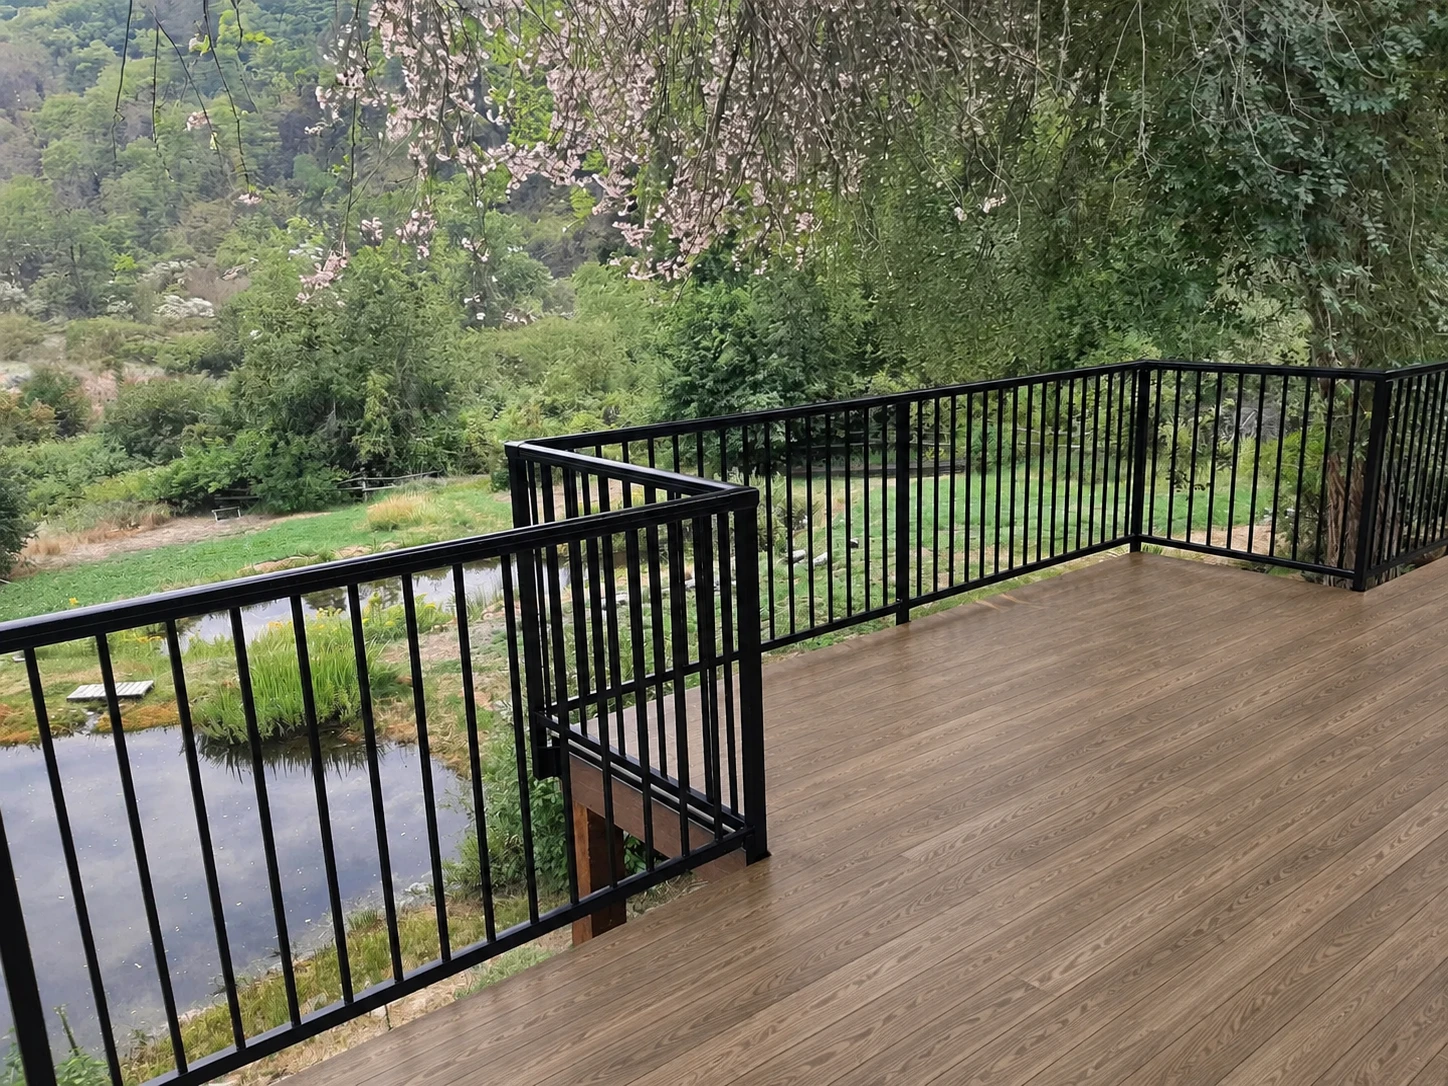
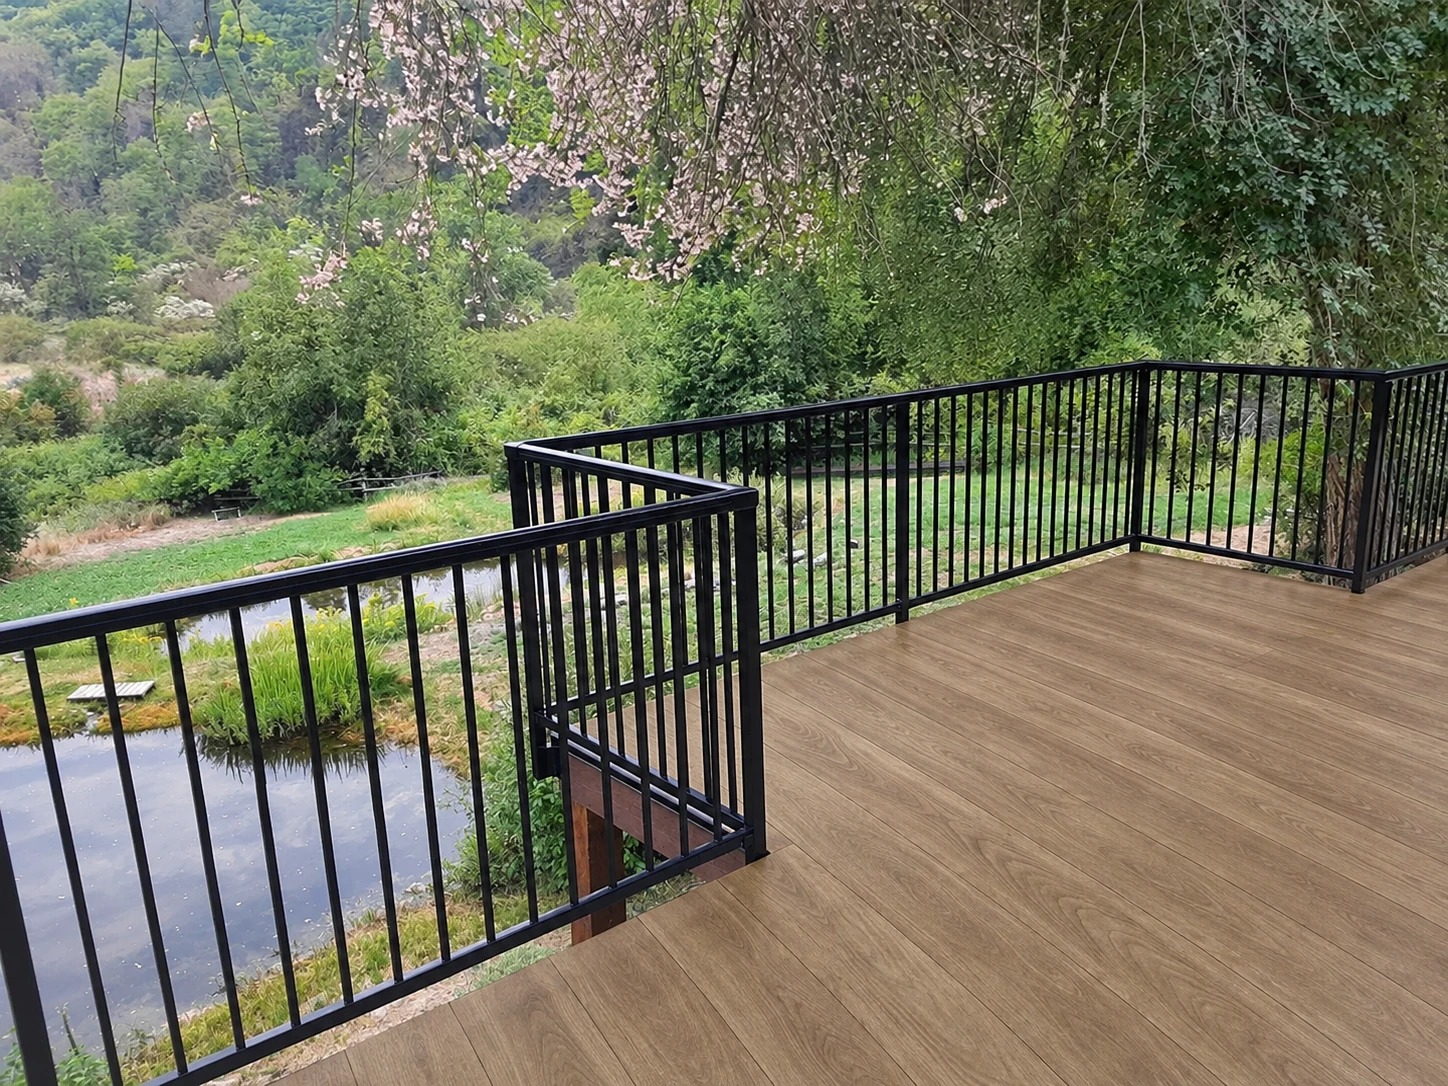
Render woodgrains at high quality; prompt v7; re-measured chevron hints
Benchmarked on the backyard photo before changing anything: at medium
quality every Hansberry render drew the chevron boards two to three
times too wide, across 24 renders and seven variants (current prompt,
re-measured hints, a shorter prompt, a scale bar drawn on the reference,
a 2x2 tiled reference, an explicit deck-size sentence, Sunburst). The
quality tier was the lever: at high, 5 of 6 Hansberry and 3 of 3
Boardwalk renders landed the scale with the same prompt, and Ipe joints
came out crisp. Speckles look the same at either tier.

- Vinyl.renderQuality: high for the wood family, medium for the rest,
  passed through the route, the stock script and the bench.
  OPENAI_IMAGE_QUALITY_WOOD=medium puts cost first again.
- prompt v7: the same brief as a numbered list at half the length. No
  measurable difference from v6.2 on scale, structure, stairs or
  speckle, so the maintainable one ships.
- Chevron hints re-measured off the strips (spines about 3 in on an
  18 in pitch, four bays per strip, diagonals about 2.5 in, not 3.5 or
  5). Hansberry's "pale tan next to deep red-brown" did not describe
  the strip and is gone. Plank hints share one measured constant.
- Stock script pauses 10s between combos to stay under the 5 images a
  minute tier.
- Regenerated and approved the nine woodgrain combos Mike rejected;
  the six he approved are untouched.

Changed region(s): [[0.0, 0.0, 1.0, 1.0], [0.0932, 0.0912, 0.1554, 0.1519], [0.0622, 0.0304, 0.0932, 0.0608]]

diff --git a/src/lib/visualizer/prompt.ts b/src/lib/visualizer/prompt.ts
@@ -4,54 +4,31 @@
  * can satisfy. Change it here and both Custom Mode and the stock-combo
  * script pick it up.
  *
- * v2: the original prompt told the model to lay the pattern along the
- * existing board lines, which produced wood planks re-textured in vinyl.
- * OnDek vinyl is a continuous waterproof membrane installed OVER the deck
- * boards, so the boards and their gaps must disappear entirely.
- *
- * v3: stairs are now explicitly excluded. The prompt never mentioned them,
- * so the model guessed (sometimes treads only, sometimes everything).
- * Real installs leave stairs as wood, and stairs are where the model most
- * often invents geometry, so they stay untouched.
- *
- * v4: woodgrain vinyls joined the lineup, and the v3 wording ("no board
- * lines or plank joints may remain visible") erased their printed planks
- * along with the photo's real boards — Ipe rendered as flat brown carpet.
- * The ban now targets the photo's original floor only, and the swatch's
- * own printed pattern (planks, chevrons, woodgrain, speckle) is called
- * out as something to reproduce.
- *
- * v5: scale. The reference used to be an 800px square crop of the pattern,
- * so the model had no idea how big a plank was and never saw a chevron's
- * full repeat (Ipe rendered as ~12" boards, Boardwalk/Hansberry repeated
- * their spine every crop-width). The reference is now the full roll-width
- * strip, and the prompt says what it is: one roll, 6 feet along the long
- * edge, per the owners. The model can now size the pattern against the
- * deck's own railing and furniture.
- *
- * v6: "6 feet" alone was a coin flip: about half the woodgrain renders
- * still fitted one strip to the whole deck (a single chevron spine across
- * the deck, foot-wide planks). Two more anchors: every design carries its
- * own measured numbers (plank width, spine spacing, how many planks a
- * 12 ft deck shows), spliced in by buildGenerationPrompt(), and the prompt
- * names real-world sizes the model can read off any photo (door width,
- * railing height, lounger length).
- *
- * v6.1: the v6 "small sample, repeated many times" language pulled the
- * membrane onto stair treads and risers (3 of 3 custom renders on a
- * deck with steps), which v3 had stopped. The scale sentence now says
- * "across the deck floor only" and the stairs rule is harder: no
- * membrane on any step, the sheet stops at the top edge of the stairs.
- *
- * v6.2: Hansberry's chevron is carried by board-to-board colour contrast
- * (pale tan next to deep red-brown), not by seam lines like Boardwalk's,
- * and "even and consistent" was averaging that contrast into one muddy
- * wash — the chevron survived only as faint streaks. Consistency now
- * applies to scale, and a design's hint may describe how its boards
- * differ from each other.
+ * History, kept short (the full reasoning lives in git for v2 to v6.2):
+ *   v2   the membrane covers the deck boards; it is not laid along them.
+ *   v3   stairs get no membrane (real installs leave them as wood).
+ *   v4   the "no plank lines" ban targets the photo's floor only, so the
+ *        woodgrains keep their printed planks.
+ *   v5   the reference is the full roll-width strip, stated as 6 feet.
+ *   v6   per-design measured hints ({SCALE}) plus real-world anchors
+ *        (door, railing, lounger); v6.1 re-scoped them to the deck floor
+ *        after they pulled membrane onto stairs; v6.2 dropped "even and
+ *        consistent", which was averaging chevron boards together.
+ *   v7   rewritten as a numbered brief at about half the length. Seven
+ *        versions of accretion had the scale instruction stated three
+ *        times and the colour instruction twice. Benchmarked against v6.2
+ *        on the backyard photo (Hansberry, Boardwalk, Ipe, granite, and a
+ *        deck with stairs): no difference in scale, structure, stairs, or
+ *        speckle, so the shorter one ships. The scale problem itself was
+ *        not a prompt problem at all: see Vinyl.renderQuality.
+ */
+
+/**
+ * Real-world sizes the model can read off almost any deck photo. Kept
+ * separate from the template so the design hint slots in before it.
  */
 const SCALE_ANCHORS =
-  "For scale, use what is in the photo: an exterior door is about 36 inches (0.9 m) wide, a railing is 36 to 42 inches (1 m) tall with its pickets about 4 inches (10 cm) apart, a lounge chair is about 6 feet (1.8 m) long. Image 2 is a small sample, not the whole floor: a typical deck floor is two to four roll widths across and shows the pattern repeated many times, across the deck floor only.";
+  "Read the deck's size from the photo: an exterior door is about 36 inches (0.9 m) wide, a railing is 36 to 42 inches (1 m) tall with its pickets about 4 inches (10 cm) apart, a lounge chair is about 6 feet (1.8 m) long.";
 
 /** The tuned prompt with the design's own measured sizes spliced in */
 export function buildGenerationPrompt(scaleHint?: string): string {
@@ -64,4 +41,14 @@ export function buildGenerationPrompt(scaleHint?: string): string {
 /** Template. Callers should use buildGenerationPrompt(); the bare
  *  template still works as a fallback because {SCALE} sits inside a
  *  sentence that reads fine without it. */
-export const GENERATION_PROMPT = `Image 1 is a photo of a deck. Image 2 is a section of vinyl decking membrane exactly one roll wide: the long edge of Image 2 is 6 feet (1.8 m) of real membrane, so every plank width, chevron, and speckle in it is shown at true scale. Vinyl decking is a continuous waterproof sheet that gets installed on top of the existing deck floor, completely covering it. Replace ONLY the deck floor surface in Image 1 with a single continuous sheet of the vinyl membrane from Image 2, as it would look after professional installation. The original deck boards, their gaps, seams, and grain must be completely hidden under the new membrane — nothing of the photo's own floor surface may show through anywhere. The new floor reads as one continuous printed sheet carrying the swatch's exact pattern: every plank line, chevron, woodgrain, or speckle on the new floor comes from the swatch's printed design and only from it, reproduced faithfully at its real-world scale. Size the pattern on the deck from that 6 foot reference: judge the deck's real dimensions from its railing, furniture, and doors, and lay the pattern so plank widths and chevron spacing are the same real size they are in Image 2. {SCALE} Continue the pattern across the whole floor the way a roll would: the same repeat at the same scale everywhere, with no enlarged, shrunken, or extra copies of any element. Everything else must stay exactly as it is: railing, house, furniture, plants, sky, shadows, and camera angle. Stairs, steps, stair treads, and stair risers are NOT part of the deck floor and must receive no membrane at all: every step stays exactly as it appears in the photo, its original wood and colour untouched, and the new sheet stops cleanly at the top edge of the stairs. Keep the deck's existing geometry and perspective exactly — the new surface lies on the same floor plane, follows the same vanishing point and angle as the original floor, and ends at the same edges; do not flatten the surface, do not introduce a second vanishing point, and do not extend the deck beyond its current edges. Match the swatch's pattern to its real-world scale, consistent in scale across the whole floor, receding naturally with distance. Keep every board in the pattern as distinct as it is in Image 2: crisp joints between neighbouring boards, and each board keeping its own colour and grain rather than blending into the boards beside it. Preserve the original lighting: sunlight, shadows cast onto the deck, and reflections stay in the same places, now falling on the new membrane. Reproduce the swatch's color and printed pattern faithfully. Do not add, remove, or move any objects. Output a photorealistic image that looks like the same photo taken after the vinyl membrane was installed.`;
+export const GENERATION_PROMPT = `Image 1 is a photo of a deck. Image 2 is a flat sample of printed vinyl decking membrane shown at true scale: its long edge is exactly 6 feet (1.8 m) of real membrane, about the length of a lounge chair or two door widths. It is a small sample; a deck floor is usually two to four sample widths across, so the sample repeats many times over the floor.
+
+Task: show the deck in Image 1 after this membrane has been professionally installed over its floor, and change nothing else.
+
+1. Coverage: the membrane is one continuous waterproof sheet laid over the deck floor. The photo's own boards, gaps and grain vanish completely under it. The sheet ends exactly where the deck floor ends, on the same floor plane, with the same perspective and vanishing point.
+2. Pattern: the new floor shows only Image 2's printed design, repeated edge to edge at the same scale everywhere, like wallpaper: the same boards, joints, colours and repeat as in Image 2, every board as distinct from its neighbours as it is there. Do not invent, enlarge, shrink, or blend any element.
+3. Scale: lay the pattern at real size. {SCALE}
+4. Stairs: steps, treads and risers get no membrane and keep their original wood. The sheet stops cleanly at the top edge of the stairs.
+5. Everything else stays exactly as in Image 1: railing, house, furniture, plants, sky, camera angle, and the original sunlight, shadows and reflections, now falling on the new surface.
+
+Output the same photo, photorealistic, after installation.`;

diff --git a/src/lib/designs.ts b/src/lib/designs.ts
@@ -60,6 +60,17 @@ const SCENE = (id: string) =>
 const SWATCH = (slug: string) => `/images/designs/swatches/${slug}.jpg`;
 const REFERENCE = (slug: string) => `/images/designs/reference/${slug}.jpg`;
 
+// Sizes measured off the 1600px reference strips at 22.2 px per inch
+// (joint-darkness minima, Sep 2026). Straight-laid woodgrains: 13 to 14
+// planks across the 6 ft strip, so 5 to 5.5 in each. Chevrons: spine
+// boards about 3 in wide on a 16 to 18 in pitch (four bays per strip),
+// diagonals about 2.5 in wide, six or seven per bay. Both chevron strips
+// have the same geometry; only their colour differs.
+const PLANK_HINT =
+  "Count the planks in Image 2: about 14 straight planks side by side across its 6 foot length, so each plank is about 5 inches (13 cm) wide, and a 12 foot wide deck shows about 28 planks.";
+const CHEVRON_HINT =
+  "Look at Image 2 first: across its 6 foot length it shows exactly four bays, so one bay is about 18 inches (45 cm) wide. A bay is a straight vertical spine board about 3 inches (7 cm) wide, then six or seven narrow diagonal boards about 2.5 inches (6 cm) wide that all lean the same way, then the next vertical spine, then a bay of diagonals leaning the opposite way, and so on. Every bay of diagonals has a spine on both sides; diagonals never meet other diagonals directly and never form a mitred V without a spine between them. On the deck the boards must stay this narrow: a diagonal board is narrower than the gap between two railing pickets, and a 12 foot wide deck shows about 8 spines.";
+
 /** Real pattern tile, shot from the membrane. Only where one exists. */
 const TILE = (slug: string) => `/images/designs/${slug}.jpg`;
 
@@ -191,7 +202,7 @@ export const DESIGNS: Design[] = [
     blurb: "Weathered timber look, greyed off by sun and salt.",
     swatch: SWATCH("driftwood"),
     reference: REFERENCE("driftwood"),
-    scaleHint: "In this design the planks are about 5 to 6 inches (14 cm) wide, so a 12 foot wide deck shows roughly 26 planks side by side.",
+    scaleHint: PLANK_HINT,
     scene: SCENE("1716904519810-349244919824"),
     tile: SWATCH("driftwood"),
     tileTone: "#a29a8e",
@@ -208,7 +219,7 @@ export const DESIGNS: Design[] = [
     blurb: "Deep, rich hardwood tones in a classic plank layout.",
     swatch: SWATCH("ipe"),
     reference: REFERENCE("ipe"),
-    scaleHint: "In this design the planks are about 5.5 inches (14 cm) wide, so a 12 foot wide deck shows roughly 26 planks side by side.",
+    scaleHint: PLANK_HINT,
     tile: SWATCH("ipe"),
     tileTone: "#733b28",
     tone: "#733b28",
@@ -220,7 +231,9 @@ export const DESIGNS: Design[] = [
     blurb: "Chevron planks in a cool, weathered grey-brown.",
     swatch: SWATCH("boardwalk"),
     reference: REFERENCE("boardwalk"),
-    scaleHint: "This design is built from bays, each about 18 inches (45 cm) wide: a straight vertical spine board, then a bay of diagonal boards that ALL lean the same way, then another straight vertical spine, then a bay of diagonal boards leaning the opposite way, and so on across the floor. Every bay of diagonals has a vertical spine on both of its sides; diagonal boards never meet another bay of diagonals directly and never form a mitred V, there is always a spine between them. The diagonal boards are about 3.5 inches (9 cm) wide, so a 12 foot wide deck shows about 8 spines with a single bay of diagonals between each pair. The boards are a uniform weathered grey-brown with crisp joints between them.",
+    scaleHint:
+      CHEVRON_HINT +
+      " The boards are a weathered grey-brown with crisp joints between them.",
     tile: SWATCH("boardwalk"),
     tileTone: "#7d7063",
     tone: "#7d7063",
@@ -232,7 +245,9 @@ export const DESIGNS: Design[] = [
     blurb: "Warm chevron woodgrain with a hand-laid character.",
     swatch: SWATCH("hansberry"),
     reference: REFERENCE("hansberry"),
-    scaleHint: "This design is built from bays, each about 18 inches (45 cm) wide: a straight vertical spine board, then a bay of diagonal boards that ALL lean the same way, then another straight vertical spine, then a bay of diagonal boards leaning the opposite way, and so on across the floor. Every bay of diagonals has a vertical spine on both of its sides; diagonal boards never meet another bay of diagonals directly and never form a mitred V, there is always a spine between them. The diagonal boards are about 5 inches (13 cm) wide, so a 12 foot wide deck shows about 8 spines with a single bay of diagonals between each pair. The boards deliberately differ from one another: some are pale sandy tan, some are deep reddish brown, with bold grain and clear dark joints, and that board to board contrast is the design; it must not be smoothed into one even colour.",
+    scaleHint:
+      CHEVRON_HINT +
+      " The boards are warm brown, some greyer and some redder side by side, with bold grain and clear dark joints; keep that board to board variation.",
     tile: SWATCH("hansberry"),
     tileTone: "#8d7361",
     tone: "#8d7361",
@@ -244,7 +259,7 @@ export const DESIGNS: Design[] = [
     blurb: "Straight-laid walnut planks in a soft, smoky brown.",
     swatch: SWATCH("walnut"),
     reference: REFERENCE("walnut"),
-    scaleHint: "In this design the planks are about 5.5 inches (14 cm) wide, so a 12 foot wide deck shows roughly 26 planks side by side.",
+    scaleHint: PLANK_HINT,
     tile: SWATCH("walnut"),
     tileTone: "#785f43",
     tone: "#785f43",

diff --git a/src/lib/visualizer/generate.ts b/src/lib/visualizer/generate.ts
@@ -43,8 +43,13 @@ export type DeckRenderInput = {
     /** Abort the provider call after this long. Defaults to
      *  DEFAULT_TIMEOUT_MS; the route passes what's left of its budget. */
     timeoutMs?: number;
+    /** Provider quality tier. Defaults to the medium tier; the woodgrains
+     *  ask for high (see Vinyl.renderQuality for why). */
+    quality?: RenderQuality;
   };
 };
+
+export type RenderQuality = "medium" | "high";
 
 export type DeckRenderResult = {
   image: Buffer;
@@ -79,8 +84,13 @@ const OPENAI_EDITS_URL = "https://api.openai.com/v1/images/edits";
 // gpt-image-2, ~2.5x faster on our job (15-20s vs 35-45s), and truer
 // colour on the woodgrains. Sunburst showed no quality gain for +25% time.
 const MODEL = process.env.OPENAI_IMAGE_MODEL ?? "gpt-image-2.5-flare";
-// Client's call: medium everywhere — roughly a quarter of the cost of
-// high, and the input photos are read at high fidelity regardless
+// Client's call: medium by default — roughly a quarter of the cost of
+// high, and the input photos are read at high fidelity regardless. The
+// woodgrains override this per render (Vinyl.renderQuality): at medium the
+// model draws chevron and plank boards two to three times too wide on
+// close-up photos no matter what the prompt says (0 of 24 bench renders
+// right across seven prompt/reference/model variants, Sep 2026); at high
+// the same prompt lands the scale in most renders.
 const QUALITY = process.env.OPENAI_IMAGE_QUALITY ?? "medium";
 // Observed Flare renders land in 15–20s; 90s is a generous ceiling. This is
 // the ceiling for callers that don't pass options.timeoutMs (the stock
@@ -98,7 +108,7 @@ async function openAiRender(input: DeckRenderInput): Promise<DeckRenderResult> {
   const form = new FormData();
   form.append("model", MODEL);
   form.append("prompt", input.options?.prompt ?? GENERATION_PROMPT);
-  form.append("quality", QUALITY);
+  form.append("quality", input.options?.quality ?? QUALITY);
   // High input fidelity keeps the untouched parts of the photo (railing,
   // house, furniture) close to pixel-identical — the whole point here.
   // gpt-image-2 always runs high-fidelity input and doesn't take the param.

diff --git a/src/config/vinyls.ts b/src/config/vinyls.ts
@@ -11,6 +11,7 @@
  */
 
 import { DESIGNS, type Design } from "@/lib/designs";
+import type { RenderQuality } from "@/lib/visualizer/generate";
 
 export type Region = "CA" | "US";
 
@@ -27,6 +28,12 @@ export type Vinyl = {
   /** Design-specific scale sentence for the prompt, where the pattern has
    *  a unit worth sizing (planks, chevrons) */
   scaleHint?: string;
+  /** Image-model quality tier. Woodgrains render at high: at medium the
+   *  model draws their boards two to three times too wide on close-up
+   *  photos regardless of prompt (bench, Sep 2026); speckles look the
+   *  same at either tier and stay on the cheaper one. Override with
+   *  OPENAI_IMAGE_QUALITY_WOOD=medium to put cost first. */
+  renderQuality: RenderQuality;
   regions: Region[];
   /** Average colour of the swatch — placeholder wash while it loads */
   tone: string;
@@ -38,6 +45,9 @@ export type Vinyl = {
  *  coming-soon stay out of the strip until their tag is dropped. */
 const EXCLUDED_TAGS = new Set(["sold-out", "coming-soon"]);
 
+const WOOD_QUALITY: RenderQuality =
+  process.env.OPENAI_IMAGE_QUALITY_WOOD === "medium" ? "medium" : "high";
+
 function toVinyl(design: Design): Vinyl {
   return {
     sku: design.slug,
@@ -45,6 +55,7 @@ function toVinyl(design: Design): Vinyl {
     swatchPath: design.swatch,
     referencePath: design.reference ?? design.swatch,
     scaleHint: design.scaleHint,
+    renderQuality: design.family === "wood" ? WOOD_QUALITY : "medium",
     regions: ["CA", "US"],
     tone: design.tone,
     blurb: design.blurb,

diff --git a/scripts/generate-stock-combos.ts b/scripts/generate-stock-combos.ts
@@ -30,6 +30,7 @@ const ROOT = path.join(import.meta.dirname, "..");
 const REVIEW_DIR = path.join(ROOT, "visualizer-review");
 const PUBLIC_DIR = path.join(ROOT, "public", "images", "visualizer", "stock");
 const MANIFEST = path.join(ROOT, "src", "config", "stockCombos.ts");
+const RATE_PAUSE_MS = 10_000;
 
 // Outside the Next runtime nothing loads .env.local — do it by hand
 async function loadEnv() {
@@ -118,7 +119,10 @@ async function generateAll(layoutFilter: string, skuFilter: string, force: boole
           deckPhotoMime: "image/webp",
           vinylSwatch: swatch,
           vinylSwatchMime: "image/jpeg",
-          options: { prompt: buildGenerationPrompt(vinyl.scaleHint) },
+          options: {
+            prompt: buildGenerationPrompt(vinyl.scaleHint),
+            quality: vinyl.renderQuality,
+          },
         });
         await writeFile(outFile, await sharp(result.image).webp({ quality: 90 }).toBuffer());
         await logGeneration({
@@ -145,6 +149,9 @@ async function generateAll(layoutFilter: string, skuFilter: string, force: boole
         console.log(`FAILED — ${message}`);
         failed++;
       }
+      // The client's tier allows 5 input images a minute and each render
+      // sends two; a 20s render plus this pause keeps a long run under it
+      await new Promise((resolve) => setTimeout(resolve, RATE_PAUSE_MS));
     }
   }
 

diff --git a/src/app/api/visualizer/generate/route.ts b/src/app/api/visualizer/generate/route.ts
@@ -165,6 +165,7 @@ export async function POST(request: NextRequest) {
       }
       const timeoutMs = Math.min(GENERATION_BUDGET.attemptMs, remainingMs);
       const prompt = buildGenerationPrompt(vinyl.scaleHint);
+      const quality = vinyl.renderQuality;
       try {
         const result = await generateDeckRender({
           deckPhoto: deck.data,
@@ -176,6 +177,7 @@ export async function POST(request: NextRequest) {
               ? {
                   timeoutMs,
                   prompt,
+                  quality,
                   partialImages: PARTIAL_PREVIEWS.count,
                   // Intermediate frames still show the old boards; only a
                   // thumbnail leaves the server (see PARTIAL_PREVIEWS)
@@ -193,7 +195,7 @@ export async function POST(request: NextRequest) {
                     });
                   },
                 }
-              : { timeoutMs, prompt },
+              : { timeoutMs, prompt, quality },
         });
 
         const webp = await sharp(result.image)
